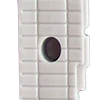
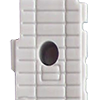
ship rendering working

diff --git a/portfolio3/index.html b/portfolio3/index.html
@@ -11,6 +11,7 @@
 		<link rel="stylesheet" type="text/css" href="style.css">
 
 		<script src="https://ajax.googleapis.com/ajax/libs/angularjs/1.5.0/angular.min.js"></script>
+		<script src="https://ajax.googleapis.com/ajax/libs/angularjs/1.5.0/angular-sanitize.js"></script>
 		<script src="ship.js"></script> 
 		<script src="player.js"></script>
 		<script src="ai.js"></script>		
@@ -56,36 +57,52 @@
 						</tr>
 					  <tr>
 						<td>1</td>
-						<td ng-repeat="i in range(0,7)" ng-class="[{missed: player.board.grid[0][i] == -1}, {hit: player.board.grid[0][i] == 1}]">{{player.board.getMarker([0, i])}}</td>
+						<td ng-repeat="i in range(0,7)" ng-class="[{missed: player.board.grid[0][i] == -1}, {hit: player.board.grid[0][i] == 1}]">
+						<span ng-bind-html="player.board.getImage([0, i]) | html"></span>
+						</td>
 
 					  </tr>
 					  <tr>
 						<td>2</td>
-						<td ng-repeat="i in range(0,7)" ng-class="[{missed: player.board.grid[1][i] == -1}, {hit: player.board.grid[1][i] == 1}]">{{player.board.getMarker([1, i])}}</td>
+						<td ng-repeat="i in range(0,7)" ng-class="[{missed: player.board.grid[1][i] == -1}, {hit: player.board.grid[1][i] == 1}]">
+						<span ng-bind-html="player.board.getImage([1, i]) | html"></span>
+						</td>
 					  </tr>
 					  <tr>
 						<td>3</td>
-						<td ng-repeat="i in range(0,7)" ng-class="[{missed: player.board.grid[2][i] == -1}, {hit: player.board.grid[2][i] == 1}]">{{player.board.getMarker([2, i])}}</td>
+						<td ng-repeat="i in range(0,7)" ng-class="[{missed: player.board.grid[2][i] == -1}, {hit: player.board.grid[2][i] == 1}]">
+						<span ng-bind-html="player.board.getImage([2, i]) | html"></span>
+						</td>
 					  </tr>
 					  <tr>
 						<td>4</td>
-						<td ng-repeat="i in range(0,7)" ng-class="[{missed: player.board.grid[3][i] == -1}, {hit: player.board.grid[3][i] == 1}]">{{player.board.getMarker([3, i])}}</td>
+						<td ng-repeat="i in range(0,7)" ng-class="[{missed: player.board.grid[3][i] == -1}, {hit: player.board.grid[3][i] == 1}]">
+						<span ng-bind-html="player.board.getImage([3, i]) | html"></span>
+						</td>
 					  </tr>
 					  <tr>
 						<td>5</td>
-						<td ng-repeat="i in range(0,7)" ng-class="[{missed: player.board.grid[4][i] == -1}, {hit: player.board.grid[4][i] == 1}]">{{player.board.getMarker([4, i])}}</td>
+						<td ng-repeat="i in range(0,7)" ng-class="[{missed: player.board.grid[4][i] == -1}, {hit: player.board.grid[4][i] == 1}]">
+						<span ng-bind-html="player.board.getImage([4, i]) | html"></span>
+						</td>
 					  </tr>
 					  <tr>
 						<td>6</td>
-						<td ng-repeat="i in range(0,7)" ng-class="[{missed: player.board.grid[5][i] == -1}, {hit: player.board.grid[5][i] == 1}]">{{player.board.getMarker([5, i])}}</td>
+						<td ng-repeat="i in range(0,7)" ng-class="[{missed: player.board.grid[5][i] == -1}, {hit: player.board.grid[5][i] == 1}]">
+						<span ng-bind-html="player.board.getImage([5, i]) | html"></span>
+						</td>
 					  </tr>
 					  <tr>
 						<td>7</td>
-						<td ng-repeat="i in range(0,7)" ng-class="[{missed: player.board.grid[6][i] == -1}, {hit: player.board.grid[6][i] == 1}]">{{player.board.getMarker([6, i])}}</td>
+						<td ng-repeat="i in range(0,7)" ng-class="[{missed: player.board.grid[6][i] == -1}, {hit: player.board.grid[6][i] == 1}]">
+						<span ng-bind-html="player.board.getImage([6, i]) | html"></span>
+						</td>
 					  </tr>
 					  <tr>
 						<td>8</td>
-						<td ng-repeat="i in range(0,7)" ng-class="[{missed: player.board.grid[7][i] == -1}, {hit: player.board.grid[7][i] == 1}]">{{player.board.getMarker([7, i])}}</td>
+						<td ng-repeat="i in range(0,7)" ng-class="[{missed: player.board.grid[7][i] == -1}, {hit: player.board.grid[7][i] == 1}]">
+						<span ng-bind-html="player.board.getImage([7, i]) | html"></span>
+						</td>
 					  </tr>
 					  
 		
@@ -110,36 +127,52 @@
 						</tr>
 					  <tr>
 						<td>1</td>
-						<td ng-repeat="i in range(0,7)" ng-class="[{missed: opponent.board.grid[0][i] == -1}, {hit: opponent.board.grid[0][i] == 1}]" ng-click="playerAction(0, i)"></td>
+						<td ng-repeat="i in range(0,7)" ng-class="[{missed: opponent.board.grid[0][i] == -1}, {hit: opponent.board.grid[0][i] == 1}]" ng-click="playerAction(0, i)">
+						<span ng-bind-html="opponent.board.showHitImage([0, i]) | html"></span>
+						</td>
 
 					  </tr>
 					  <tr>
 						<td>2</td>
-						<td ng-repeat="i in range(0,7)" ng-class="[{missed: opponent.board.grid[1][i] == -1}, {hit: opponent.board.grid[1][i] == 1}]" ng-click="playerAction(1, i)"></td>
+						<td ng-repeat="i in range(0,7)" ng-class="[{missed: opponent.board.grid[1][i] == -1}, {hit: opponent.board.grid[1][i] == 1}]" ng-click="playerAction(1, i)">
+						<span ng-bind-html="opponent.board.showHitImage([1, i]) | html"></span>
+						</td>
 					  </tr>
 					  <tr>
 						<td>3</td>
-						<td ng-repeat="i in range(0,7)" ng-class="[{missed: opponent.board.grid[2][i] == -1}, {hit: opponent.board.grid[2][i] == 1}]" ng-click="playerAction(2, i)"></td>
+						<td ng-repeat="i in range(0,7)" ng-class="[{missed: opponent.board.grid[2][i] == -1}, {hit: opponent.board.grid[2][i] == 1}]" ng-click="playerAction(2, i)">
+						<span ng-bind-html="opponent.board.showHitImage([2, i]) | html"></span>
+						</td>
 					  </tr>
 					  <tr>
 						<td>4</td>
-						<td ng-repeat="i in range(0,7)" ng-class="[{missed: opponent.board.grid[3][i] == -1}, {hit: opponent.board.grid[3][i] == 1}]" ng-click="playerAction(3, i)"></td>
+						<td ng-repeat="i in range(0,7)" ng-class="[{missed: opponent.board.grid[3][i] == -1}, {hit: opponent.board.grid[3][i] == 1}]" ng-click="playerAction(3, i)">
+						<span ng-bind-html="opponent.board.showHitImage([3, i]) | html"></span>
+						</td>
 					  </tr>
 					  <tr>
 						<td>5</td>
-						<td ng-repeat="i in range(0,7)" ng-class="[{missed: opponent.board.grid[4][i] == -1}, {hit: opponent.board.grid[4][i] == 1}]" ng-click="playerAction(4, i)"></td>
+						<td ng-repeat="i in range(0,7)" ng-class="[{missed: opponent.board.grid[4][i] == -1}, {hit: opponent.board.grid[4][i] == 1}]" ng-click="playerAction(4, i)">
+						<span ng-bind-html="opponent.board.showHitImage([4, i]) | html"></span>
+						</td>
 					  </tr>
 					  <tr>
 						<td>6</td>
-						<td ng-repeat="i in range(0,7)" ng-class="[{missed: opponent.board.grid[5][i] == -1}, {hit: opponent.board.grid[5][i] == 1}]" ng-click="playerAction(5, i)"></td>
+						<td ng-repeat="i in range(0,7)" ng-class="[{missed: opponent.board.grid[5][i] == -1}, {hit: opponent.board.grid[5][i] == 1}]" ng-click="playerAction(5, i)">
+						<span ng-bind-html="opponent.board.showHitImage([5, i]) | html"></span>
+						</td>
 					  </tr>
 					  <tr>
 						<td>7</td>
-						<td ng-repeat="i in range(0,7)" ng-class="[{missed: opponent.board.grid[6][i] == -1}, {hit: opponent.board.grid[6][i] == 1}]" ng-click="playerAction(6, i)"></td>
+						<td ng-repeat="i in range(0,7)" ng-class="[{missed: opponent.board.grid[6][i] == -1}, {hit: opponent.board.grid[6][i] == 1}]" ng-click="playerAction(6, i)">
+						<span ng-bind-html="opponent.board.showHitImage([6, i]) | html"></span>
+						</td>
 					  </tr>
 					  <tr>
 						<td>8</td>
-						<td ng-repeat="i in range(0,7)" ng-class="[{missed: opponent.board.grid[7][i] == -1}, {hit: opponent.board.grid[7][i] == 1}]" ng-click="playerAction(7, i)"></td>
+						<td ng-repeat="i in range(0,7)" ng-class="[{missed: opponent.board.grid[7][i] == -1}, {hit: opponent.board.grid[7][i] == 1}]" ng-click="playerAction(7, i)">
+						<span ng-bind-html="opponent.board.showHitImage([7, i]) | html"></span>
+						</td>
 					  </tr>
 					  
 					  

diff --git a/portfolio3/board.js b/portfolio3/board.js
@@ -29,18 +29,31 @@ Board.prototype.init = function(){
 	}
 }
 
-Board.prototype.getMarker = function(coords){
+Board.prototype.getImage = function(coords){
 
 	x = coords[1];
 	y = coords[0];
 
 	if(this.ships[y][x] != 0){
-		return this.markers[y][x];
+		return markerToImage(this.markers[y][x], this.ships[y][x].index, (this.ships[y][x].parent.orientation == 1));
 	}
 	else{
 		return "";
 	}
 
+	
+}
+
+Board.prototype.showHitImage = function(coords){
+	x = coords[1];
+	y = coords[0];
+	
+	if((this.ships[y][x] != 0)  && (this.grid[y][x] == 1) && (this.ships[y][x].parent.isDestroyed())){
+		return markerToImage(this.markers[y][x], this.ships[y][x].index, (this.ships[y][x].parent.orientation == 1));
+	}
+	else{
+		return "";
+	}
 	
 }
 

diff --git a/portfolio3/ship.js b/portfolio3/ship.js
@@ -35,7 +35,7 @@ Ship.prototype.init = function(){
 	var x = this.start[1];
 	var y = this.start[0];
 	for(var i = 0; i < this.size; i++){
-		var frag = new Fragment(this, y, x);
+		var frag = new Fragment(this, y, x, i);
 
 		this.fragments.push(frag);
 
@@ -52,9 +52,10 @@ Ship.prototype.init = function(){
 
 }
 
-function Fragment(parent, y, x){
+function Fragment(parent, y, x, index){
 	this.x = x;
 	this.y = y;
+	this.index = index;
 	this.parent = parent;
 
 	this.destroyed = false;

diff --git a/portfolio3/battleship.js b/portfolio3/battleship.js
@@ -1,4 +1,10 @@
-var app = angular.module('battleship', []);
+var app = angular.module('battleship', ['ngSanitize']);
+
+app.filter('html', ['$sce', function ($sce) { 
+    return function (code) {
+        return $sce.trustAsHtml(code);
+    };    
+}]);
 
 app.controller('GameController', ['$scope', function($scope) {
 	$scope.message = "Test";

diff --git a/portfolio3/util.js b/portfolio3/util.js
@@ -43,3 +43,13 @@ function parseCoords(coords){
 
 	return [x,y];
 }
+
+function markerToImage(marker, index, rotate){
+	
+	if(rotate){
+		return "<img class='rotate' src='resources/fragments/" + marker + index + ".png'>";
+	}else{
+		return "<img src='resources/fragments/" + marker + index + ".png'>";
+	}
+	
+}

diff --git a/portfolio3/style.css b/portfolio3/style.css
@@ -45,3 +45,11 @@ td{
     width: 90%;
     height: 90%;
 }
+
+.rotate{
+	-webkit-transform: rotate(270deg);
+    -moz-transform: rotate(270deg);
+    -ms-transform: rotate(270deg);
+    -o-transform: rotate(270deg);
+    transform: rotate(270deg);
+}
